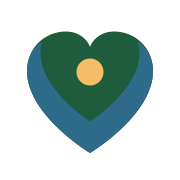
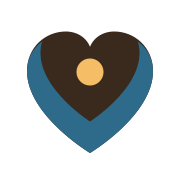
Rebrand v3: drop green, primary anchor is now warm espresso brown
Green wasn't landing in either shade tried. Replaces it entirely with
a warm espresso/walnut brown as the primary anchor color -- ties to
"home" (wood, warmth) rather than forest, avoids the clinical feel of
navy, and keeps the honey gold and sky blue accents from the previous
pass since those weren't flagged. Also fixes a pre-existing dark-mode
specificity bug where the hero trust stats picked up brand-slate blue
instead of white against the photo overlay.

Changed region(s): [[0.1667, 0.1667, 0.8333, 0.6667]]

diff --git a/assets/css/style.css b/assets/css/style.css
@@ -1,20 +1,20 @@
 /* ==========================================================================
    Care by KindHeart — Design System
-   Brand: Golden Hour — meadow green, honey gold, open sky blue.
-   Bright and welcoming rather than clinical or somber: spring growth,
-   warm evening light, and clear Inland Northwest sky.
+   Brand: Golden Hour — warm espresso, honey gold, open sky blue.
+   Bright and welcoming rather than clinical or somber: a warm home,
+   evening light, and clear Inland Northwest sky. No green.
    ========================================================================== */
 
 @import url('https://fonts.googleapis.com/css2?family=Lora:ital,wght@0,500;0,600;0,700;1,500&family=Inter:wght@400;500;600;700&display=swap');
 
 :root {
   /* --- Brand hues (light mode) --- */
-  --pine-950: #1f5c3e;
-  --pine-900: #26714a;
-  --pine-800: #2f8558;
-  --pine-700: #3d9964;
-  --pine-600: #4fae78;
-  --pine-100: #dff3e7;
+  --pine-950: #3a2a1d;
+  --pine-900: #4a3627;
+  --pine-800: #5c4530;
+  --pine-700: #6e5540;
+  --pine-600: #83694f;
+  --pine-100: #ede0d0;
 
   --slate-900: #1a3b4a;
   --slate-700: #24586f;
@@ -67,7 +67,7 @@
   --brand-rust-hover: var(--rust-700);
 
   --focus-ring: var(--slate-600);
-  --shadow-color: 150 40% 10%;
+  --shadow-color: 27 33% 8%;
   --shadow-sm: 0 1px 2px hsl(var(--shadow-color) / 0.08);
   --shadow-md: 0 6px 20px -4px hsl(var(--shadow-color) / 0.16);
   --shadow-lg: 0 20px 45px -12px hsl(var(--shadow-color) / 0.28);
@@ -106,18 +106,18 @@
 
 @media (prefers-color-scheme: dark) {
   :root:not([data-theme="light"]) {
-    --bg: #1b4a34;
-    --bg-alt: #22593f;
-    --surface: #1f5238;
-    --surface-raised: #1f5238;
-    --text: #fbf3e1;
-    --text-muted: #c7d6be;
+    --bg: #2a1f16;
+    --bg-alt: #352718;
+    --surface: #40301f;
+    --surface-raised: #40301f;
+    --text: #f7ecd9;
+    --text-muted: #c9b596;
     --text-on-brand: #ffffff;
-    --border: #2e6b4a;
-    --border-strong: #3f8558;
+    --border: #4a3627;
+    --border-strong: #5c4530;
 
-    --brand-primary: #93ddb3;
-    --brand-primary-hover: #b5eac9;
+    --brand-primary: #e8d4b8;
+    --brand-primary-hover: #f2e4cc;
     --brand-slate: #6fb8d9;
     --brand-slate-hover: #9ad0e8;
     --brand-clay: #f5bd66;
@@ -125,11 +125,11 @@
     --brand-rust: #dba08f;
     --brand-rust-hover: #b8503a;
 
-    --focus-ring: #93ddb3;
-    --shadow-color: 150 45% 4%;
+    --focus-ring: #e8d4b8;
+    --shadow-color: 27 35% 4%;
     color-scheme: dark;
 
-    --neu-base: #1f5238;
+    --neu-base: #40301f;
     --neu-light-rgb: 255, 255, 255;
     --neu-dark-rgb: 0, 0, 0;
     --neu-shadow-raised:
@@ -147,25 +147,25 @@
     --neu-cast-shadow: 0 6px 16px rgba(0, 0, 0, 0.5);
 
     --bg: var(--neu-base);
-    --bg-alt: #26603f;
+    --bg-alt: #4a3928;
     --surface: var(--neu-base);
     --surface-raised: var(--neu-base);
   }
 }
 
 :root[data-theme="dark"] {
-  --bg: #1b4a34;
-  --bg-alt: #22593f;
-  --surface: #1f5238;
-  --surface-raised: #1f5238;
-  --text: #fbf3e1;
-  --text-muted: #c7d6be;
+  --bg: #2a1f16;
+  --bg-alt: #352718;
+  --surface: #40301f;
+  --surface-raised: #40301f;
+  --text: #f7ecd9;
+  --text-muted: #c9b596;
   --text-on-brand: #ffffff;
-  --border: #2e6b4a;
-  --border-strong: #3f8558;
+  --border: #4a3627;
+  --border-strong: #5c4530;
 
-  --brand-primary: #93ddb3;
-  --brand-primary-hover: #b5eac9;
+  --brand-primary: #e8d4b8;
+  --brand-primary-hover: #f2e4cc;
   --brand-slate: #6fb8d9;
   --brand-slate-hover: #9ad0e8;
   --brand-clay: #f5bd66;
@@ -173,11 +173,11 @@
   --brand-rust: #dba08f;
   --brand-rust-hover: #b8503a;
 
-  --focus-ring: #93ddb3;
-  --shadow-color: 150 45% 4%;
+  --focus-ring: #e8d4b8;
+  --shadow-color: 27 35% 4%;
   color-scheme: dark;
 
-  --neu-base: #1f5238;
+  --neu-base: #40301f;
   --neu-light-rgb: 255, 255, 255;
   --neu-dark-rgb: 0, 0, 0;
   --neu-shadow-raised:
@@ -195,7 +195,7 @@
   --neu-cast-shadow: 0 6px 16px rgba(0, 0, 0, 0.5);
 
   --bg: var(--neu-base);
-  --bg-alt: #26603f;
+  --bg-alt: #4a3928;
   --surface: var(--neu-base);
   --surface-raised: var(--neu-base);
 }
@@ -475,7 +475,7 @@ li:last-child { margin-bottom: 0; }
   content: '';
   position: absolute;
   inset: 0;
-  background: linear-gradient(100deg, rgba(31,92,62,0.94) 0%, rgba(31,92,62,0.82) 40%, rgba(31,92,62,0.5) 78%, rgba(31,92,62,0.3) 100%);
+  background: linear-gradient(100deg, rgba(58,42,29,0.94) 0%, rgba(58,42,29,0.82) 40%, rgba(58,42,29,0.5) 78%, rgba(58,42,29,0.3) 100%);
   z-index: 0;
 }
 .hero--photo > .container { position: relative; z-index: 1; }
@@ -486,7 +486,8 @@ li:last-child { margin-bottom: 0; }
 .hero--photo .lede { color: rgba(255,255,255,0.9); margin-bottom: 0; }
 .hero--photo .hero__actions { margin-top: 38px; }
 .hero--photo .hero__trust { margin-top: 56px; gap: 40px; }
-.hero--photo .hero__trust div strong { color: #fff; }
+.hero--photo .hero__trust div strong,
+[data-theme="dark"] .hero--photo .hero__trust div strong { color: #fff; }
 .hero--photo .hero__trust div span { color: rgba(255,255,255,0.72); }
 @media (max-width: 700px) {
   .hero--photo { min-height: 560px; padding: 120px 0 80px; }
@@ -514,7 +515,7 @@ li:last-child { margin-bottom: 0; }
   content: '';
   position: absolute;
   inset: 0;
-  background: linear-gradient(180deg, rgba(31,92,62,0.5) 0%, rgba(31,92,62,0.78) 100%);
+  background: linear-gradient(180deg, rgba(58,42,29,0.5) 0%, rgba(58,42,29,0.78) 100%);
 }
 .section-breaker__content {
   position: relative;
@@ -679,8 +680,8 @@ li:last-child { margin-bottom: 0; }
 
 /* --- Footer --- */
 .site-footer { background: var(--pine-950); color: #c5ddd8; padding: 72px 0 28px; margin-top: 40px; }
-[data-theme="dark"] .site-footer { background: #0f2e1e; }
-.site-footer a { color: #d7ecd9; text-decoration: none; }
+[data-theme="dark"] .site-footer { background: #241a12; }
+.site-footer a { color: #ecdfc9; text-decoration: none; }
 .site-footer a:hover { color: #fff; text-decoration: underline; }
 .footer__grid { display: grid; grid-template-columns: 1.4fr 1fr 1fr 1fr; gap: 40px; }
 @media (max-width: 800px) { .footer__grid { grid-template-columns: repeat(2, 1fr); } }
@@ -688,12 +689,12 @@ li:last-child { margin-bottom: 0; }
 .footer__grid h4 { color: #fff; font-family: var(--font-body); font-size: 0.85rem; letter-spacing: 0.08em; text-transform: uppercase; margin-bottom: 18px; }
 .footer__grid ul { list-style: none; padding: 0; margin: 0; display: flex; flex-direction: column; gap: 14px; font-size: 0.92rem; line-height: 1.5; }
 .footer__grid ul li { margin-bottom: 0; }
-.footer__brand p { color: #a7c4a8; max-width: 32ch; }
+.footer__brand p { color: #c4b092; max-width: 32ch; }
 .footer__social { display: flex; gap: 10px; margin-top: 18px; }
 .footer__social a { width: 44px; height: 44px; border: 1px solid rgba(255,255,255,0.25); border-radius: 50%; display: flex; align-items: center; justify-content: center; transition: background 0.25s var(--ease), border-color 0.25s var(--ease); }
 .footer__social a:hover { background: var(--brand-slate); border-color: var(--brand-slate); }
 .footer__social svg { width: 17px; height: 17px; }
-.footer__bottom { margin-top: 56px; padding-top: 24px; border-top: 1px solid rgba(255,255,255,0.12); display: flex; justify-content: space-between; gap: 20px; flex-wrap: wrap; font-size: 0.82rem; color: #8faa8c; }
+.footer__bottom { margin-top: 56px; padding-top: 24px; border-top: 1px solid rgba(255,255,255,0.12); display: flex; justify-content: space-between; gap: 20px; flex-wrap: wrap; font-size: 0.82rem; color: #a89478; }
 .footer__bottom ul { display: flex; gap: 20px; list-style: none; padding: 0; margin: 0; flex-wrap: wrap; }
 .footer__bottom ul li { margin-bottom: 0; }
 
@@ -747,7 +748,7 @@ li:last-child { margin-bottom: 0; }
   content: '';
   position: absolute;
   inset: 0;
-  background: linear-gradient(100deg, rgba(31,92,62,0.92) 0%, rgba(31,92,62,0.8) 45%, rgba(31,92,62,0.62) 100%);
+  background: linear-gradient(100deg, rgba(58,42,29,0.92) 0%, rgba(58,42,29,0.8) 45%, rgba(58,42,29,0.62) 100%);
   z-index: 0;
 }
 .page-banner--photo > .container { position: relative; z-index: 1; }
@@ -855,7 +856,7 @@ table.dos-donts th { font-size: 0.8rem; text-transform: uppercase; letter-spacin
 .service-photo__note {
   position: absolute;
   bottom: 0; left: 0; right: 0;
-  background: linear-gradient(to top, rgba(31,92,62,0.88) 0%, transparent 100%);
+  background: linear-gradient(to top, rgba(58,42,29,0.88) 0%, transparent 100%);
   padding: 28px 24px 22px;
   border-radius: 0 0 var(--radius-lg) var(--radius-lg);
 }

diff --git a/brand-guide.html b/brand-guide.html
@@ -134,12 +134,12 @@
         </table>
 
         <h2 style="margin-top:64px;">Color palette</h2>
-        <p>Our palette is "golden hour" in the Inland Northwest: fresh spring meadow green, warm honey light, and clear open sky, not a generic clinical template. Three brand hues, each with a working tonal range, plus a bright warm-cream neutral system for text and backgrounds. We do not use gradients or purple anywhere in the brand, on principle: flat, confident color reads as more trustworthy for a care organization than decorative blends.</p>
+        <p>Our palette is "golden hour" in a warm home: espresso brown, honey light, and clear open sky, not a generic clinical template. Three brand hues, each with a working tonal range, plus a bright warm-cream neutral system for text and backgrounds. We do not use green, gradients, or purple anywhere in the brand, on principle: flat, confident color reads as more trustworthy for a care organization than decorative blends.</p>
 
         <h3>Primary hues</h3>
         <div class="swatch-grid">
-          <div class="swatch"><div class="swatch__color" style="background:#1f5c3e;"></div><div class="swatch__meta"><strong>Meadow 950</strong><span>#1F5C3E</span></div></div>
-          <div class="swatch"><div class="swatch__color" style="background:#3d9964;"></div><div class="swatch__meta"><strong>Meadow 700</strong><span>#3D9964</span></div></div>
+          <div class="swatch"><div class="swatch__color" style="background:#3a2a1d;"></div><div class="swatch__meta"><strong>Espresso 950</strong><span>#3A2A1D</span></div></div>
+          <div class="swatch"><div class="swatch__color" style="background:#6e5540;"></div><div class="swatch__meta"><strong>Espresso 700</strong><span>#6E5540</span></div></div>
           <div class="swatch"><div class="swatch__color" style="background:#2e6b8a;"></div><div class="swatch__meta"><strong>Sky Blue</strong><span>#2E6B8A</span></div></div>
           <div class="swatch"><div class="swatch__color" style="background:#24586f;"></div><div class="swatch__meta"><strong>Deep Sky</strong><span>#24586F</span></div></div>
           <div class="swatch"><div class="swatch__color" style="background:#f2a93c;"></div><div class="swatch__meta"><strong>Honey Gold</strong><span>#F2A93C</span></div></div>
@@ -153,9 +153,9 @@
           <div class="swatch"><div class="swatch__color" style="background:#eddfc0;"></div><div class="swatch__meta"><strong>Border Tan</strong><span>#EDDFC0</span></div></div>
           <div class="swatch"><div class="swatch__color" style="background:#7a6b52;"></div><div class="swatch__meta"><strong>Warm Taupe</strong><span>#7A6B52</span></div></div>
           <div class="swatch"><div class="swatch__color" style="background:#4a3f29;"></div><div class="swatch__meta"><strong>Charcoal</strong><span>#4A3F29</span></div></div>
-          <div class="swatch"><div class="swatch__color" style="background:#1f5c3e;"></div><div class="swatch__meta"><strong>Evening (dark bg)</strong><span>#1F5C3E</span></div></div>
+          <div class="swatch"><div class="swatch__color" style="background:#3a2a1d;"></div><div class="swatch__meta"><strong>Evening (dark bg)</strong><span>#3A2A1D</span></div></div>
         </div>
-        <p style="margin-top:20px;">Usage rule of thumb: Meadow carries authority, headers, and dark backgrounds; Honey Gold is the primary action color for buttons and highlights; Sky Blue is the secondary/link color for supporting actions, and should read as open and calm rather than clinical. Neither accent should cover more than 10&ndash;15% of a layout.</p>
+        <p style="margin-top:20px;">Usage rule of thumb: Espresso carries authority, headers, and dark backgrounds; Honey Gold is the primary action color for buttons and highlights; Sky Blue is the secondary/link color for supporting actions, and should read as open and calm rather than clinical. Neither accent should cover more than 10&ndash;15% of a layout.</p>
 
         <h2 style="margin-top:64px;">Typography</h2>
         <p>Headlines are set in Lora, a warm serif that reads as credible without feeling institutional. Body copy is set in Inter for maximum legibility on screen, including for older readers and low-vision users.</p>
